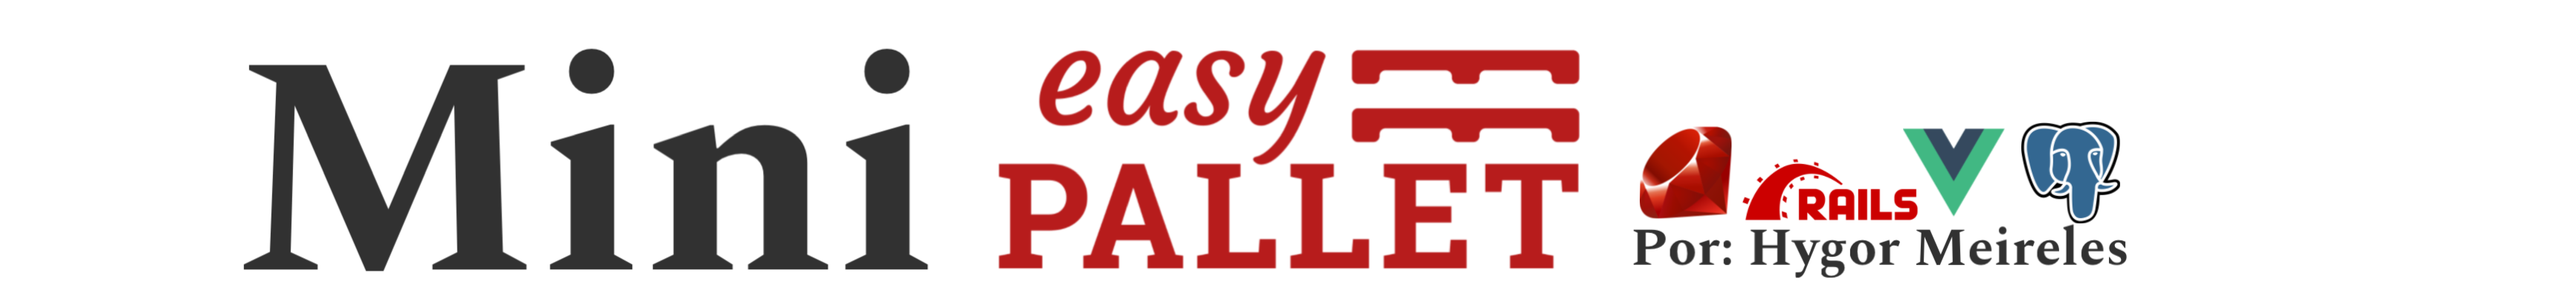
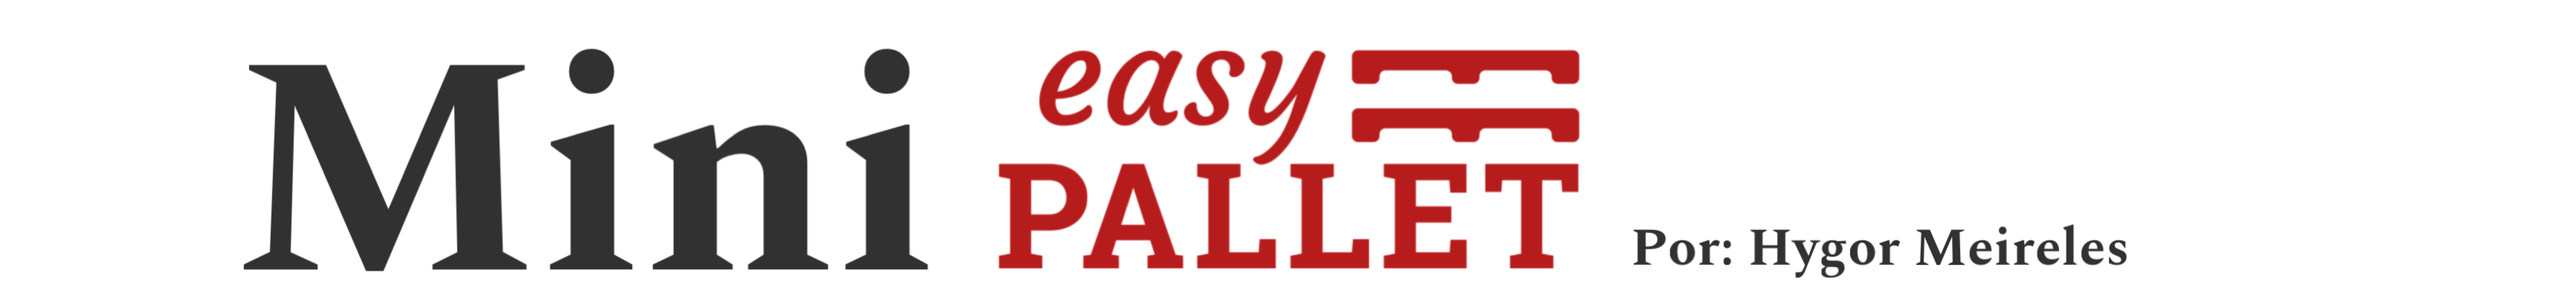
Dashboard upgrades

Changed region(s): [[0.6236, 0.3759, 0.8418, 0.7229]]

diff --git a/src/pages/admin/dashboard/Dashboard.vue b/src/pages/admin/dashboard/Dashboard.vue
@@ -2,39 +2,47 @@
   <div class="dashboard">
     <div class="flex col-span-12 p-4 justify-center">
       <div class="py-5 justify-center flex">
-        <mini-easy-logo height="235" width="1800" />
+        <mini-easy-logo height="150" width="1100" />
       </div>
     </div>
   </div>
-  <br />
-  <br />
-  <br />
-  <br />
-  <br />
-  <br />
-  <VaCarousel :items="items" stateful autoscroll :autoscroll-interval="6000">
+  <VaCarousel :items="items" stateful autoscroll infinite :autoscroll-interval="5000">
     <template #default="{ item }">
       <img :src="item.src" alt="" />
     </template>
   </VaCarousel>
+  <div class="dashboard">
+    <div class="flex col-span-12 p-4 justify-center">
+      <div class="py-5 justify-center flex">
+        <Icones height="80" width="400" />
+      </div>
+    </div>
+  </div>
 </template>
 
 <script setup lang="ts">
   import { ref } from 'vue'
   import MiniEasyLogo from '@/components/MiniEasyLogo.vue'
+  import Icones from '@/components/Icones.vue'
 
   const items = ref([
     { src: '/Login.png' },
-    { src: 'url-da-imagem-2.jpg' },
-    { src: 'url-da-imagem-3.jpg' },
-    { src: 'url-da-imagem-3.jpg' },
-    { src: 'url-da-imagem-3.jpg' },
+    { src: '/pag1.png' },
+    { src: '/pag2.png' },
+    { src: '/pag3.png' },
+    { src: '/pag4.png' },
+    { src: '/pag5.png' },
+    { src: '/pag6.png' },
   ])
 </script>
 
 <style lang="scss">
   .va-carousel {
-    height: 500px !important;
+    height: 430px !important;
+    width: 1100px;
+    margin: 0 auto;
+    margin-top: 40px;
+    margin-bottom: 50px;
   }
   .va-carousel__slide {
     font-size: 10px;
@@ -49,5 +57,18 @@
         justify-content: space-between;
       }
     }
+  }
+  .va-button.va-button--round.va-button--normal{
+    background-color: #f44336 !important;
+    --va-0-background-color: transparent
+    color: white !important;
+    color: white !important;
+  }
+  .va-button:hover{
+    background-color: #ffffff !important;
+    color: #0000 !important;
+  }
+  .material-icons {
+      color: rgb(255, 255, 255)!important;
   }
 </style>

diff --git a/src/pages/admin/users/Users.vue b/src/pages/admin/users/Users.vue
@@ -61,18 +61,18 @@
 
   <div class="flex justify-center mt-4 items-center">
     <va-button
-      style="--va-0-background-color: #cb0127"
+      style="--va-0-background-color: #f44336"
       class="pagination-button"
       :disabled="currentPage <= 1"
       @click="changePage(currentPage - 1)"
     >
       &lt;
     </va-button>
-    <va-button style="--va-0-background-color: #cb0127" class="pagination-number" :disabled="true">
+    <va-button style="--va-0-background-color: #f44336" class="pagination-number" :disabled="true">
       {{ currentPage }}
     </va-button>
     <va-button
-      style="--va-0-background-color: #cb0127"
+      style="--va-0-background-color: #f44336"
       class="pagination-button"
       :disabled="users.length < usersPerPage || currentPage >= totalPages"
       @click="changePage(currentPage + 1)"
@@ -144,7 +144,7 @@
         try {
           const userData = { user: this.newUser }
           await axios.post('/admin/v1/users', userData, {})
-          const successMessage = 'Usuário criado com sucesso!'
+          const successMessage = 'Usuário adicionado com sucesso!'
           this.$store.commit('setSuccessMessage', successMessage)
           this.resetNewUser()
           this.fetchUsers()

diff --git a/src/components/navbar/components/AppNavbarActions.vue b/src/components/navbar/components/AppNavbarActions.vue
@@ -1,17 +1,37 @@
 <template>
   <div class="app-navbar-actions">
     <language-dropdown class="app-navbar-actions__item" />
-    <profile-dropdown class="app-navbar-actions__item app-navbar-actions__item--profile"> </profile-dropdown>
+    <profile-dropdown class="app-navbar-actions__item app-navbar-actions__item--profile">
+      <span v-if="currentUser">{{ currentUser.name }}</span>
+    </profile-dropdown>
   </div>
 </template>
 
 <script setup lang="ts">
-  import { computed, onMounted } from 'vue'
-  import { useStore } from 'vuex'
+  import { ref, onMounted } from 'vue'
+  import axios from '@/axios'
   import LanguageDropdown from './dropdowns/LanguageDropdown.vue'
   import ProfileDropdown from './dropdowns/ProfileDropdown.vue'
 
-  const store = useStore()
+  const currentUser = ref<User | null>(null)
+
+  interface User {
+    id: number
+    name: string
+  }
+
+  onMounted(async () => {
+    await fetchCurrentUser()
+  })
+
+  const fetchCurrentUser = async () => {
+    try {
+      const response = await axios.get('/admin/v1/users/current')
+      currentUser.value = response.data
+    } catch (error) {
+      console.error('Erro ao buscar o usuário atual', error)
+    }
+  }
 </script>
 
 <style lang="scss">

diff --git a/src/components/navbar/Navbar.vue b/src/components/navbar/Navbar.vue
@@ -11,7 +11,7 @@
           color="white"
           @click="$emit('toggle-sidebar')"
         />
-        <img src="/logo.png" alt="Logo easy" width="75" />
+        <img src="/logo.png" alt="Logo easy" width="90" />
       </div>
     </template>
     <div class="app-navbar-center"></div>
@@ -43,7 +43,7 @@
     isSidebarMinimized.value = store.state.isSidebarMinimized
   }
 
-  // Defina a variável isFullScreenSidebar
+  // Define a variável isFullScreenSidebar
   const isFullScreenSidebar = computed(() => {
     return window.innerWidth <= 640 && !isSidebarMinimized.value
   })
@@ -53,17 +53,15 @@
   .va-navbar {
     box-shadow: var(--va-box-shadow);
     z-index: 2;
-    height: 0.5vh;
-    /* Alterado para usar unidades de viewport */
+    height: 5vh;
     display: flex;
     justify-content: space-between;
     align-items: center;
 
+    //ajuste de tamanho do icone de fechar o menu
     .va-icon-menu-collapsed {
       width: 20px;
-      /* Ajuste o tamanho conforme necessário */
       height: 20px;
-      /* Ajuste o tamanho conforme necessário */
     }
   }
 

diff --git a/src/pages/admin/products/Products.vue b/src/pages/admin/products/Products.vue
@@ -60,18 +60,18 @@
 
   <div class="flex justify-center mt-4 items-center">
     <va-button
-      style="--va-0-background-color: #cb0127"
+      style="--va-0-background-color: #f44336"
       class="pagination-button"
       :disabled="currentPage <= 1"
       @click="changePage(currentPage - 1)"
     >
       &lt;
     </va-button>
-    <va-button style="--va-0-background-color: #cb0127" class="pagination-number" :disabled="true">
+    <va-button style="--va-0-background-color: #f44336" class="pagination-number" :disabled="true">
       {{ currentPage }}
     </va-button>
     <va-button
-      style="--va-0-background-color: #cb0127"
+      style="--va-0-background-color: #f44336"
       class="pagination-button"
       :disabled="products.length < productsPerPage || currentPage >= totalPages"
       @click="changePage(currentPage + 1)"

diff --git a/src/pages/admin/loads/Loads.vue b/src/pages/admin/loads/Loads.vue
@@ -61,18 +61,18 @@
 
   <div class="flex justify-center mt-4 items-center">
     <va-button
-      style="--va-0-background-color: #cb0127"
+      style="--va-0-background-color: #f44336"
       class="pagination-button"
       :disabled="currentPage <= 1"
       @click="changePage(currentPage - 1)"
     >
       &lt;
     </va-button>
-    <va-button style="--va-0-background-color: #cb0127" class="pagination-number" :disabled="true">
+    <va-button style="--va-0-background-color: #f44336" class="pagination-number" :disabled="true">
       {{ currentPage }}
     </va-button>
     <va-button
-      style="--va-0-background-color: #cb0127"
+      style="--va-0-background-color: #f44336"
       class="pagination-button"
       :disabled="loads.length < loadsPerPage || currentPage >= totalPages"
       @click="changePage(currentPage + 1)"

diff --git a/src/components/Icones.vue b/src/components/Icones.vue
@@ -1,0 +1,11 @@
+<template>
+  <svg class="va-icon-icones" :height="props.height">
+    <image href="/Icones.png" x="0" y="0" height="100%" width="100%" preserveAspectRatio="none" />
+  </svg>
+</template>
+
+<script setup lang="ts">
+  const props = defineProps<{
+    height?: number | string
+  }>()
+</script>
